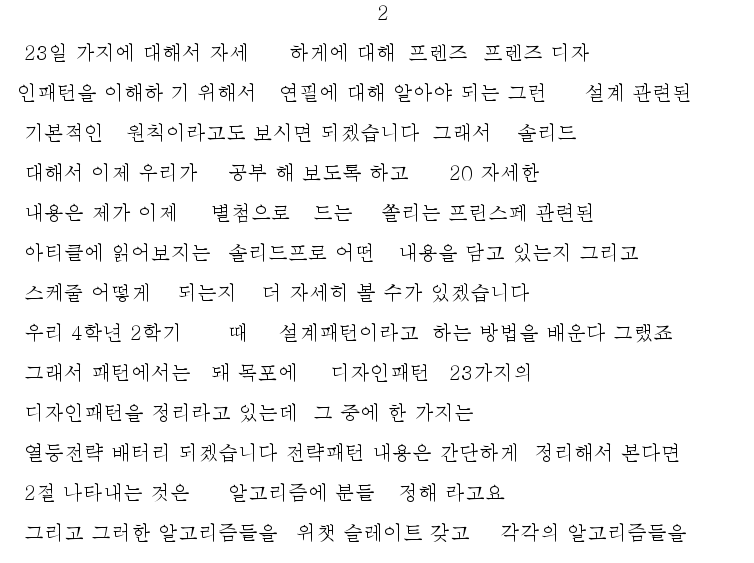
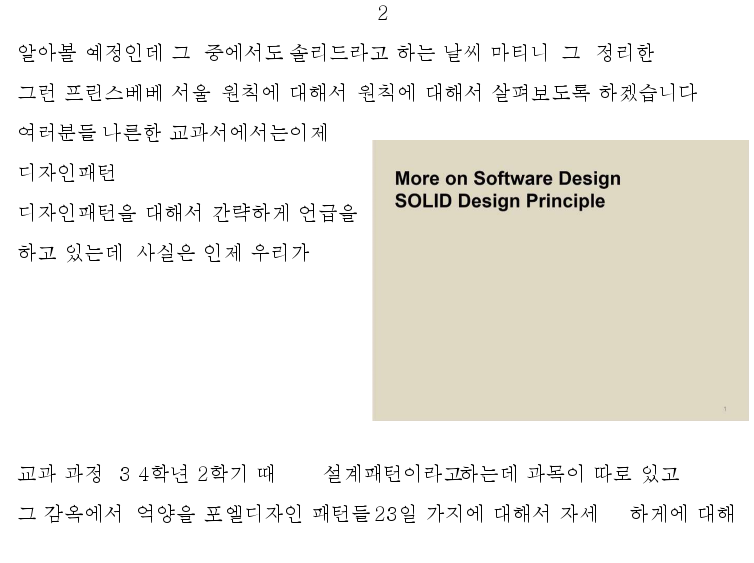
TTI TextToImage
클래스 완성

diff --git a/TextToImage/src/test/TextToImg.java b/TextToImage/src/test/TextToImg.java
@@ -2,6 +2,7 @@ package test;
 
 import java.awt.*;
 import java.awt.image.BufferedImage;
+import java.awt.image.ImageObserver;
 import java.io.BufferedReader;
 import java.io.File;
 import java.io.FileOutputStream;
@@ -40,7 +41,6 @@ public class TextToImg {
 		
 		this.font = new Font(fontFamily,Font.PLAIN,fontSize);
 		
-		convert();
 		
 	}
 	public void convert() throws Exception{
@@ -50,33 +50,84 @@ public class TextToImg {
 		int wordStart = 10;
 		int lineStart = fontSize * 3;
 		int noteIndex = 0;
-		Note note = notes.get(noteIndex);
-		BufferedImage noteImg = null; 
+		int cPosIndex = 0;
+		int widthMargin = width;
+		int heightMargin = 0;
 		
+		boolean notePrinted = false;
+		
+		Note note = notes.get(noteIndex++);
+		BufferedImage noteImg = null; 
+		System.out.println("width : " + width + " | height : " + height);
+		
+
 		for(int i = 0; i < string.size(); i++) {
 			
+			if (changedP.get(cPosIndex) == i) {
+				if (cPosIndex < changedP.size() - 1 ) cPosIndex += 1;
+				imageWrite();
+				initGraphic();
+				lineStart = fontSize * 3;
+				wordStart = 10;
+				widthMargin = width;
+				heightMargin = 0;
+				//System.out.println("페이지 넘김");
+			}
+			
+			// ---------------------- 노트 출력 --------------------------------
 			// note의 startIndex과 string의 index가 같다면 같은 초이므로 노트의 이미지를 그릴 준비.
 			if (note.startIndex == i ) {
-				System.out.println(noteIndex + "번째 그림과 " + i + "초의 텍스트 그리기");
+				notePrinted = true;
 				noteImg = note.note;
+				//System.out.println(noteIndex + "번째 그림과 " + i + "초의 텍스트 그리기");
 			}
-			if (noteImg != null) { // 그려야할 이미지가 있다. 여백을 고려하여 출력 혹은 띄우기나 새 장 그리기 필요
-				// 그리기 필요
-			}
-			// if (cPos로 강의에서 pdf화면이 넘어간걸 인식했을 때, 기존 이미지 내보내고 그래픽 초기화)
 			
+			if (noteImg != null) {
+				//System.out.println("그림");
+				if (wordStart + noteImg.getWidth() + 5 > width) {	// 우측 여백이 모자랄 경우 한 줄 띄우기
+					lineStart += fontSize * 2;
+					wordStart = 10;
+				}
+				if (lineStart + noteImg.getHeight() > height ) {	// 하단 여백이 모자랄 경우 다음 장으로 넘기기
+					imageWrite();
+					initGraphic();
+					wordStart = 10;
+					lineStart = fontSize * 3;
+				}
+				graphics.drawImage(noteImg, width - noteImg.getWidth() - 5, lineStart, null);
+				widthMargin = width - noteImg.getWidth() - 5;
+				heightMargin = lineStart + noteImg.getHeight();
+				
+				noteImg = null;
+			}
+			
+			if (notePrinted) {
+				if (note.endIndex == i) {
+					notePrinted = false;
+					lineStart = heightMargin + fontSize * 3;
+					wordStart = 10;
+					widthMargin = width;
+					if (noteIndex < notes.size()) {
+						note = notes.get(noteIndex++);
+					}
+				}
+			}
+			// --------------------------노트 출력 끝 ---------------------------------
+
 			String word = string.get(i);
 			// i초의 word이다. 
-			if (wordStart + word.length() * (fontSize - 3) + 40 > width) {	// 가로의 남은 공간이 불충분하여 줄 띄움
+			if (wordStart + word.length() * (fontSize - 4) + fontSize> widthMargin) {	// 가로의 남은 공간이 불충분하여 줄 띄움
 				wordStart = 10;
-				if (lineStart > height - fontSize * 2){	// 줄 띄울만한 여백이 존재하지 않아 다음 장으로 넘어감
+				if (lineStart > height - fontSize * 3){	// 줄 띄울만한 여백이 존재하지 않아 다음 장으로 넘어감
 					imageWrite();
 					initGraphic();
 					lineStart = fontSize;
 				}
 				lineStart += fontSize * 2;
 			}
-			System.out.println("wordStart = " + wordStart + " | lineStart = " + lineStart);
+			word = " " + spaceRemover(word);
+			//System.out.println("wordStart = " + wordStart + " | lineStart = " + lineStart);
+			//System.out.println(word);
 			graphics.drawString(word, wordStart, lineStart);
 			wordStart += word.length() * (fontSize - 3);
 			
@@ -111,5 +162,10 @@ public class TextToImg {
 		
 		
 		
+	}
+	private String spaceRemover(String s) {
+		if (s.charAt(0) != ' ') return s;
+		else  s = spaceRemover(s.substring(1));
+		return s;
 	}
 }

diff --git a/TextToImage/src/test/IMG_Resize.java b/TextToImage/src/test/IMG_Resize.java
@@ -13,8 +13,8 @@ public class IMG_Resize {
 	public BufferedImage ResizeIMG(BufferedImage img) {	//매개변수 img를  새로운 높이 폭으로 바꾼뒤 return 
 
 		BufferedImage changed = new BufferedImage (newWidth, newHeight, BufferedImage.TYPE_INT_ARGB);
-	    Graphics2D bGr = img.createGraphics();
-	    bGr.drawImage(img, 0, 0, null);
+	    Graphics2D bGr = changed.createGraphics();
+	    bGr.drawImage(img.getScaledInstance(newWidth, newHeight, BufferedImage.SCALE_SMOOTH), 0, 0, null);
 	    bGr.dispose();
 		return changed;
 	}

diff --git a/TextToImage/src/test/TextToImgDemo.java b/TextToImage/src/test/TextToImgDemo.java
@@ -21,6 +21,7 @@ public class TextToImgDemo
 		index.add(new Point(50, 55));
 		index.add(new Point(60, 70)); // 드는~
 		System.out.println(sttstring[50]);
+		System.out.println(sttstring[70]);
 		
 		ArrayList<Note> notes = new ArrayList<>();
 		ArrayList<BufferedImage> imgs = new ArrayList<>();
@@ -40,6 +41,8 @@ public class TextToImgDemo
 		}
 		TextToImg textToimg = new TextToImg(sttarray,notes,change, imgs.get(0).getWidth(), imgs.get(0).getHeight());
 		//textToImg 실행
+		textToimg.convert();
+		
 	}
  
 }

diff --git a/TextToImage/src/test/Note.java b/TextToImage/src/test/Note.java
@@ -11,5 +11,7 @@ public class Note {
 		this.note = note;
 		this.startIndex = startIndex;
 		this.endIndex = endIndex;
+		
+		
 	}
 }
